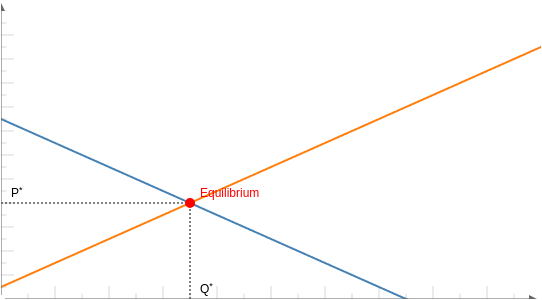
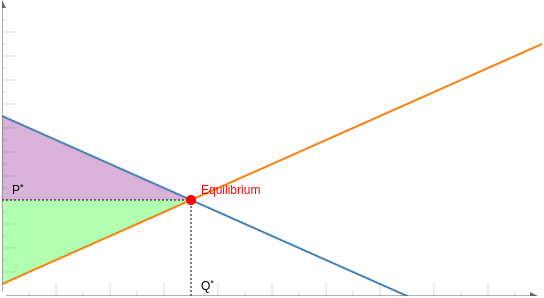
Add area display to linear-demand tax graph

diff --git a/media/js/src/graphs/TaxationLinearDemandSupplyGraph.js b/media/js/src/graphs/TaxationLinearDemandSupplyGraph.js
@@ -1,4 +1,5 @@
-import { Graph } from './Graph.js';
+import { Graph, AREA_A_COLOR, AREA_B_COLOR } from './Graph.js';
+import {drawPolygon} from '../jsxgraphUtils.js';
 
 /*const dq = function(c, b, p) {
     return c / b - p / b;
@@ -79,7 +80,18 @@ class TaxationLinearDemandSupplyGraph extends Graph {
         );
 
         if (this.options.gShowIntersection) {
-            this.showIntersection(this.l1, this.l2);
+            const intersection = this.showIntersection(this.l1, this.l2);
+
+            drawPolygon(this.board, [
+                intersection,
+                [0, this.options.gA1],
+                [0, intersection.Y()]
+            ], null, AREA_A_COLOR);
+            drawPolygon(this.board, [
+                intersection,
+                [0, intersection.Y()],
+                [0, this.l1.Y(0)]
+            ], null, AREA_B_COLOR);
         }
     }
 }

diff --git a/media/js/src/jsxgraphUtils.js b/media/js/src/jsxgraphUtils.js
@@ -41,7 +41,7 @@ const drawPolygon = function(board, points, name, color, visible=true) {
         ...shapeOptions
     });
 
-    if (visible) {
+    if (visible && name) {
         drawLabel(board, points, name);
     }
 
